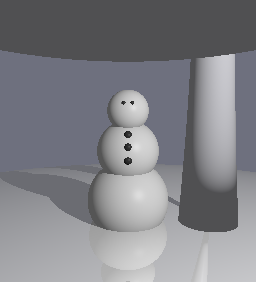
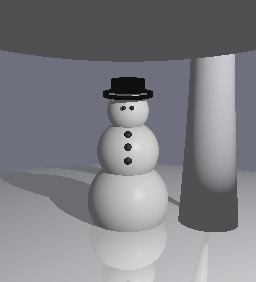
added (vertical) cyclinders and a hat

Changed region(s): [[0.4062, 0.2553, 0.5938, 0.3972]]

diff --git a/ray.py b/ray.py
@@ -1,5 +1,5 @@
 import numpy as np
-
+import math
 from utils import *
 
 """
@@ -188,6 +188,98 @@ class Cone:
                 normal *= -1
             return Hit(t, point, normal, self.material)
 
+class Cylinder:
+
+  def __init__(self, center, radius, height, material):
+        """Create a cylinder with the given center, radius, and height.
+
+        Parameters:
+          center : (3,) -- a 3D point specifying the cylinder's center
+          radius : float -- a Python float specifying the cylinder's radius
+          height : float -- a Python float specifying the cylinder's height
+          material : Material -- the material of the surface
+        """
+        self.center = center
+        self.radius = radius
+        self.height = height
+        self.material = material
+
+  def intersect(self, ray:Ray):
+    """Computes the intersection between a ray and this cylinder, if it exists.
+
+      Parameters:
+        ray : Ray -- the ray to intersect with the triangle
+      Return:
+        Hit -- the hit data
+      """
+    # Ray parameters
+    O = ray.origin
+    D = ray.direction
+
+    # Cylinder parameters
+    C = self.center
+    r = self.radius
+    h = self.height
+
+    # Calculate components for solving quadratic equation
+    a = D[0] * D[0] + D[2] * D[2]  # Assuming a cylinder aligned with y-axis
+    b = 2 * (D[0] * (O[0] - C[0]) + D[2] * (O[2] - C[2]))
+    c = (O[0] - C[0]) * (O[0] - C[0]) + (O[2] - C[2]) * (O[2] - C[2]) - r * r
+
+    # Solve the quadratic equation
+    discriminant = b * b - 4 * a * c
+    if discriminant < 0:
+        return no_hit  # No intersection
+
+    # Calculate the closest intersection point
+    t1 = (-b + math.sqrt(discriminant)) / (2 * a)
+    t2 = (-b - math.sqrt(discriminant)) / (2 * a)
+
+    # Check if the intersection points are within bounds of the cylinder
+    intersection1 = O + t1 * D
+    intersection2 = O + t2 * D
+
+    # Check if intersections are within height bounds
+    y_min = C[1]
+    y_max = C[1] + h
+    if y_min > y_max:
+        y_min, y_max = y_max, y_min  # Swap values if y_min is greater
+
+    valid_intersection1 = y_min <= intersection1[1] <= y_max
+    valid_intersection2 = y_min <= intersection2[1] <= y_max
+
+    if valid_intersection1 and valid_intersection2:
+        if (np.linalg.norm(intersection1 - O))**2 < (np.linalg.norm(intersection2 - O))**2:
+          normal_x = 2 * (intersection1[0] - C[0])
+          normal_y = 0  # Cylinder is aligned with the y-axis, so no change in y direction
+          normal_z = 2 * (intersection1[2] - C[2])
+          normal_vector = (normal_x, normal_y, normal_z)
+          normal_vector = normalize(normal_vector)
+          return Hit(t1, point=intersection1, normal=normal_vector, material=self.material)
+        else:
+          normal_x = 2 * (intersection2[0] - C[0])
+          normal_y = 0  # Cylinder is aligned with the y-axis, so no change in y direction
+          normal_z = 2 * (intersection2[2] - C[2])
+          normal_vector = (normal_x, normal_y, normal_z)
+          normal_vector = normalize(normal_vector)
+          return Hit(t2, point=intersection2, normal=normal_vector, material=self.material)
+    elif valid_intersection1:
+        normal_x = 2 * (intersection1[0] - C[0])
+        normal_y = 0  # Cylinder is aligned with the y-axis, so no change in y direction
+        normal_z = 2 * (intersection1[2] - C[2])
+        normal_vector = (normal_x, normal_y, normal_z)
+        normal_vector = normalize(normal_vector)
+        return Hit(t1, point=intersection1, normal=normal_vector, material=self.material)
+    elif valid_intersection2:
+        normal_x = 2 * (intersection2[0] - C[0])
+        normal_y = 0  # Cylinder is aligned with the y-axis, so no change in y direction
+        normal_z = 2 * (intersection2[2] - C[2])
+        normal_vector = (normal_x, normal_y, normal_z)
+        normal_vector = normalize(normal_vector)
+        return Hit(t2, point=intersection2, normal=normal_vector, material=self.material)
+    else:
+        return no_hit  # No intersection within cylinder bounds
+
 class Triangle:
 
     def __init__(self, vs, material):
@@ -322,14 +414,19 @@ class PointLight:
         if blocking != no_hit:
             return np.zeros(3)
 
-        for surf in scene.surfs:
-            point = np.array(surf.intersect(ray).point)
-            if (point == hit.point).all():
+        # for surf in scene.surfs:
+        #     point = np.array(surf.intersect(ray).point)
+        #     if (point == hit.point).all():
 
-                shading = (surf.material.k_d + surf.material.k_s * (n @ h)**surf.material.p) * self.intensity * \
+        #         shading = (surf.material.k_d + surf.material.k_s * (n @ h)**surf.material.p) * self.intensity * \
+        #             np.clip((n @ l),
+        #                     0, None) / r**2
+        #         return shading
+            
+        shading = (hit.material.k_d + hit.material.k_s * (n @ h)**hit.material.p) * self.intensity * \
                     np.clip((n @ l),
                             0, None) / r**2
-                return shading
+        return shading
 
 
 class AmbientLight:
@@ -354,11 +451,11 @@ class AmbientLight:
         """
         # TODO A4 implement this function
 
-        for surf in scene.surfs:
-            point = np.array(surf.intersect(ray).point)
-            if (point == hit.point).all():
+        # for surf in scene.surfs:
+        #     point = np.array(surf.intersect(ray).point)
+        #     if (point == hit.point).all():
 
-                return surf.material.k_a * self.intensity
+        return hit.material.k_a * self.intensity
 
 
 class Scene:

diff --git a/C2.py b/C2.py
@@ -20,8 +20,8 @@ scene = Scene([
     Sphere(vec([0, 5.9, 14]), 1, cieling_gray),
 
     # coals (eyes)
-    Sphere(vec([0.1, 2.5, 0.4]), 0.05, coal_black),
-    Sphere(vec([-0.1, 2.5, 0.4]), 0.05, coal_black),
+    Sphere(vec([0.1, 2.4, 0.5]), 0.05, coal_black),
+    Sphere(vec([-0.1, 2.4, 0.5]), 0.05, coal_black),
 
     # coals (body)
     Sphere(vec([0, 1.75, 0.5]), 0.1, coal_black),
@@ -29,7 +29,11 @@ scene = Scene([
     Sphere(vec([0, 1.2, 0.7]), 0.1, coal_black),
 
     # icicles
-    Cone(vec([2, 0, 0]), .1, cieling_gray)
+    Cone(vec([2, 0, 0]), .1, cieling_gray),
+
+    # hat
+    Cylinder(vec([0,2.6,0]), 0.6, 0.1, coal_black),
+    Cylinder(vec([0,2.7,0]), 0.4, 0.3, coal_black)
 ],
     bg_color=vec([0.155, 0.163, 0.21]))
 
